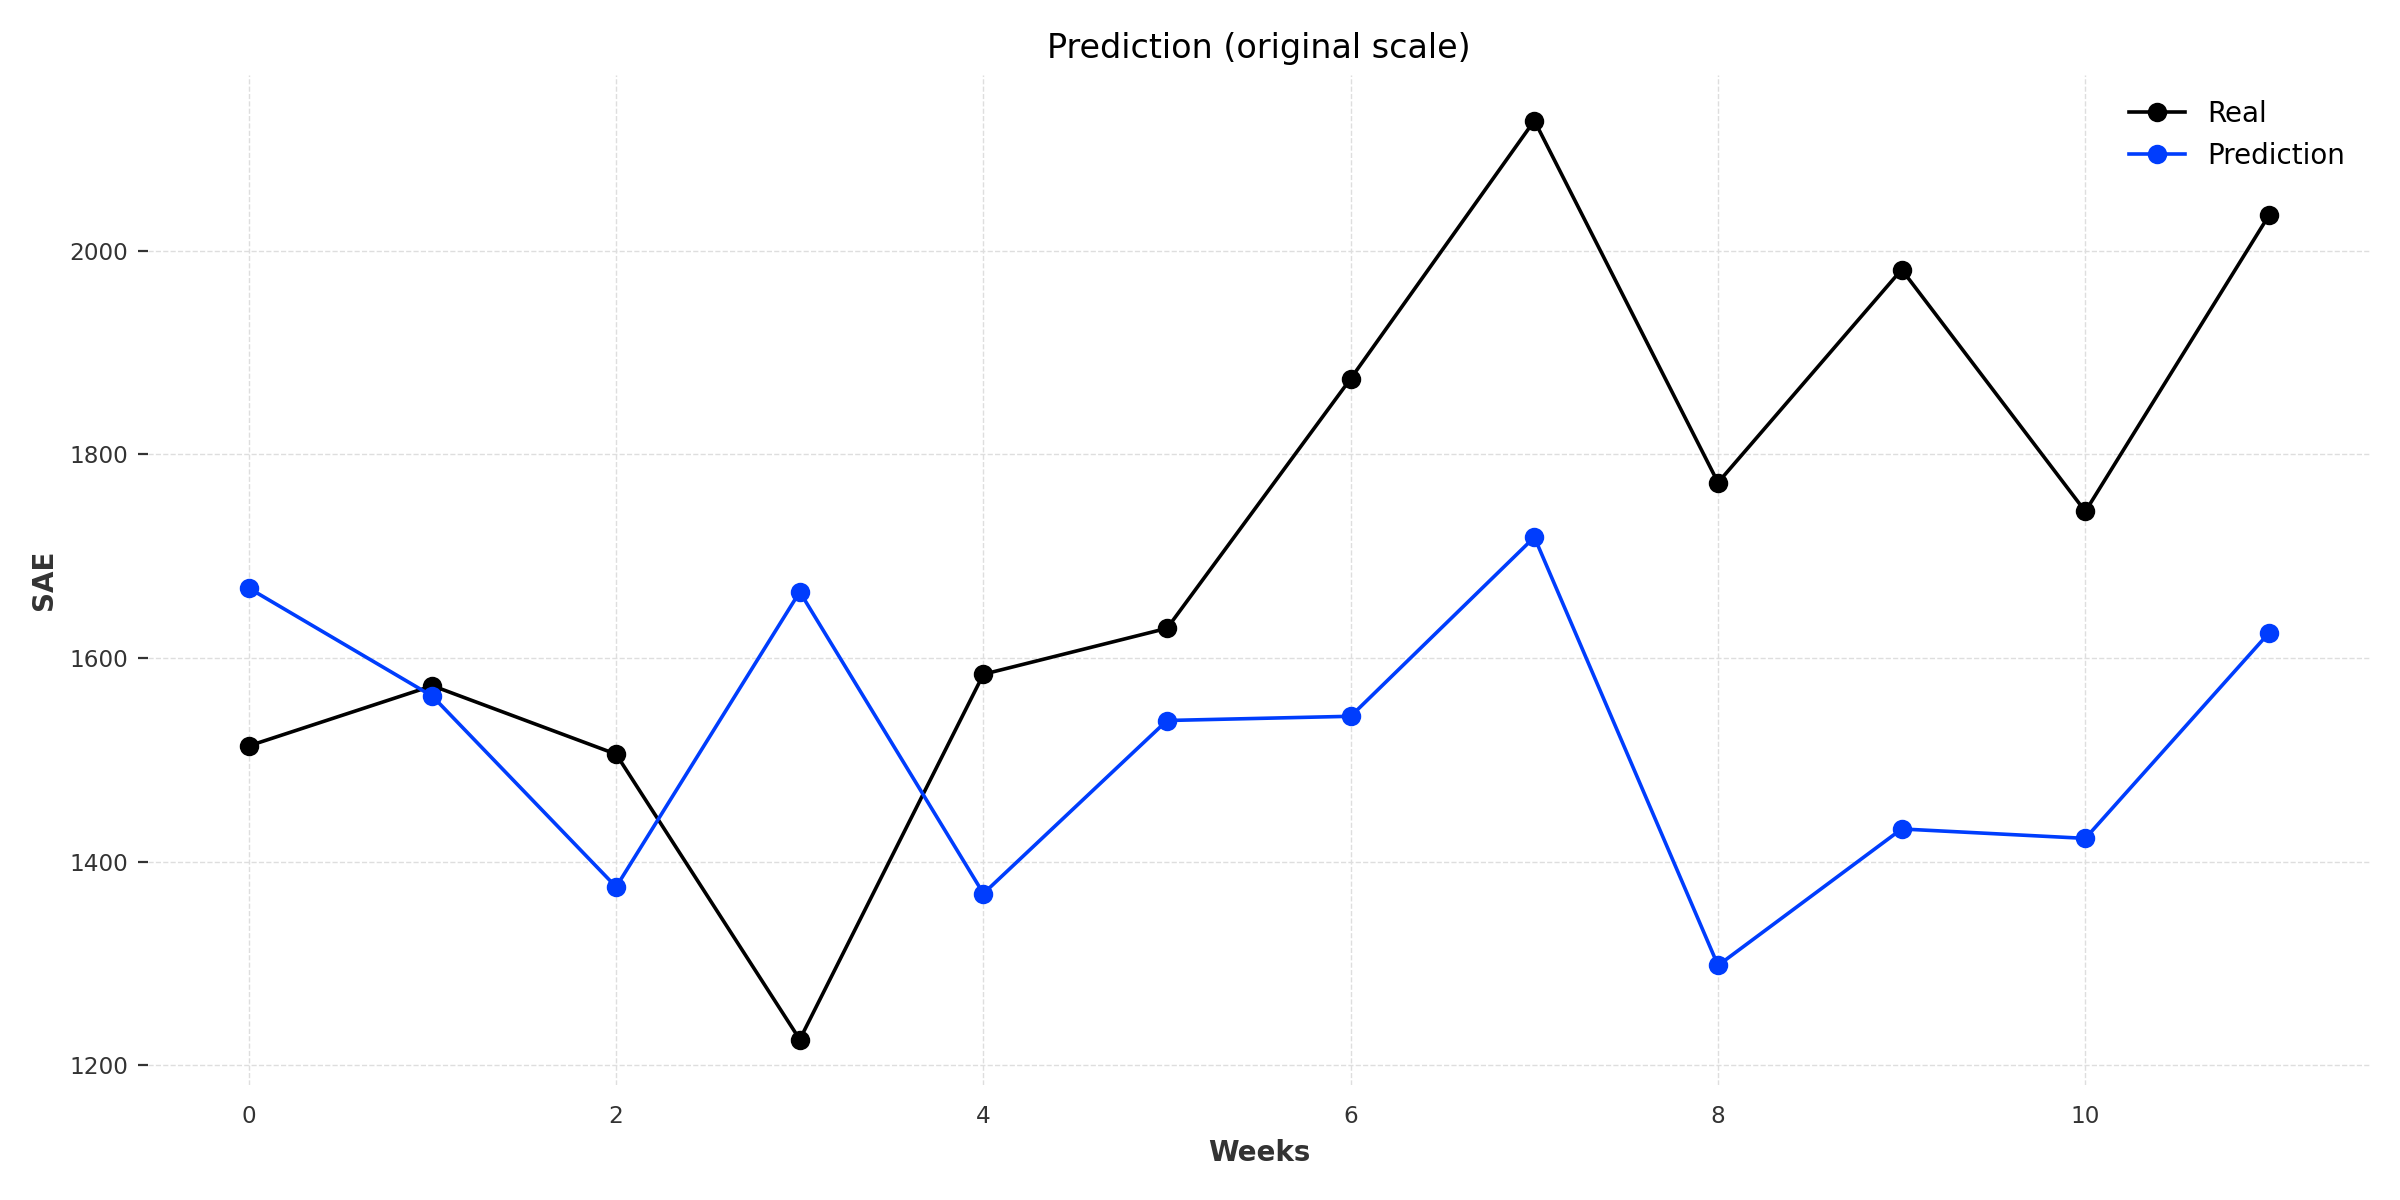
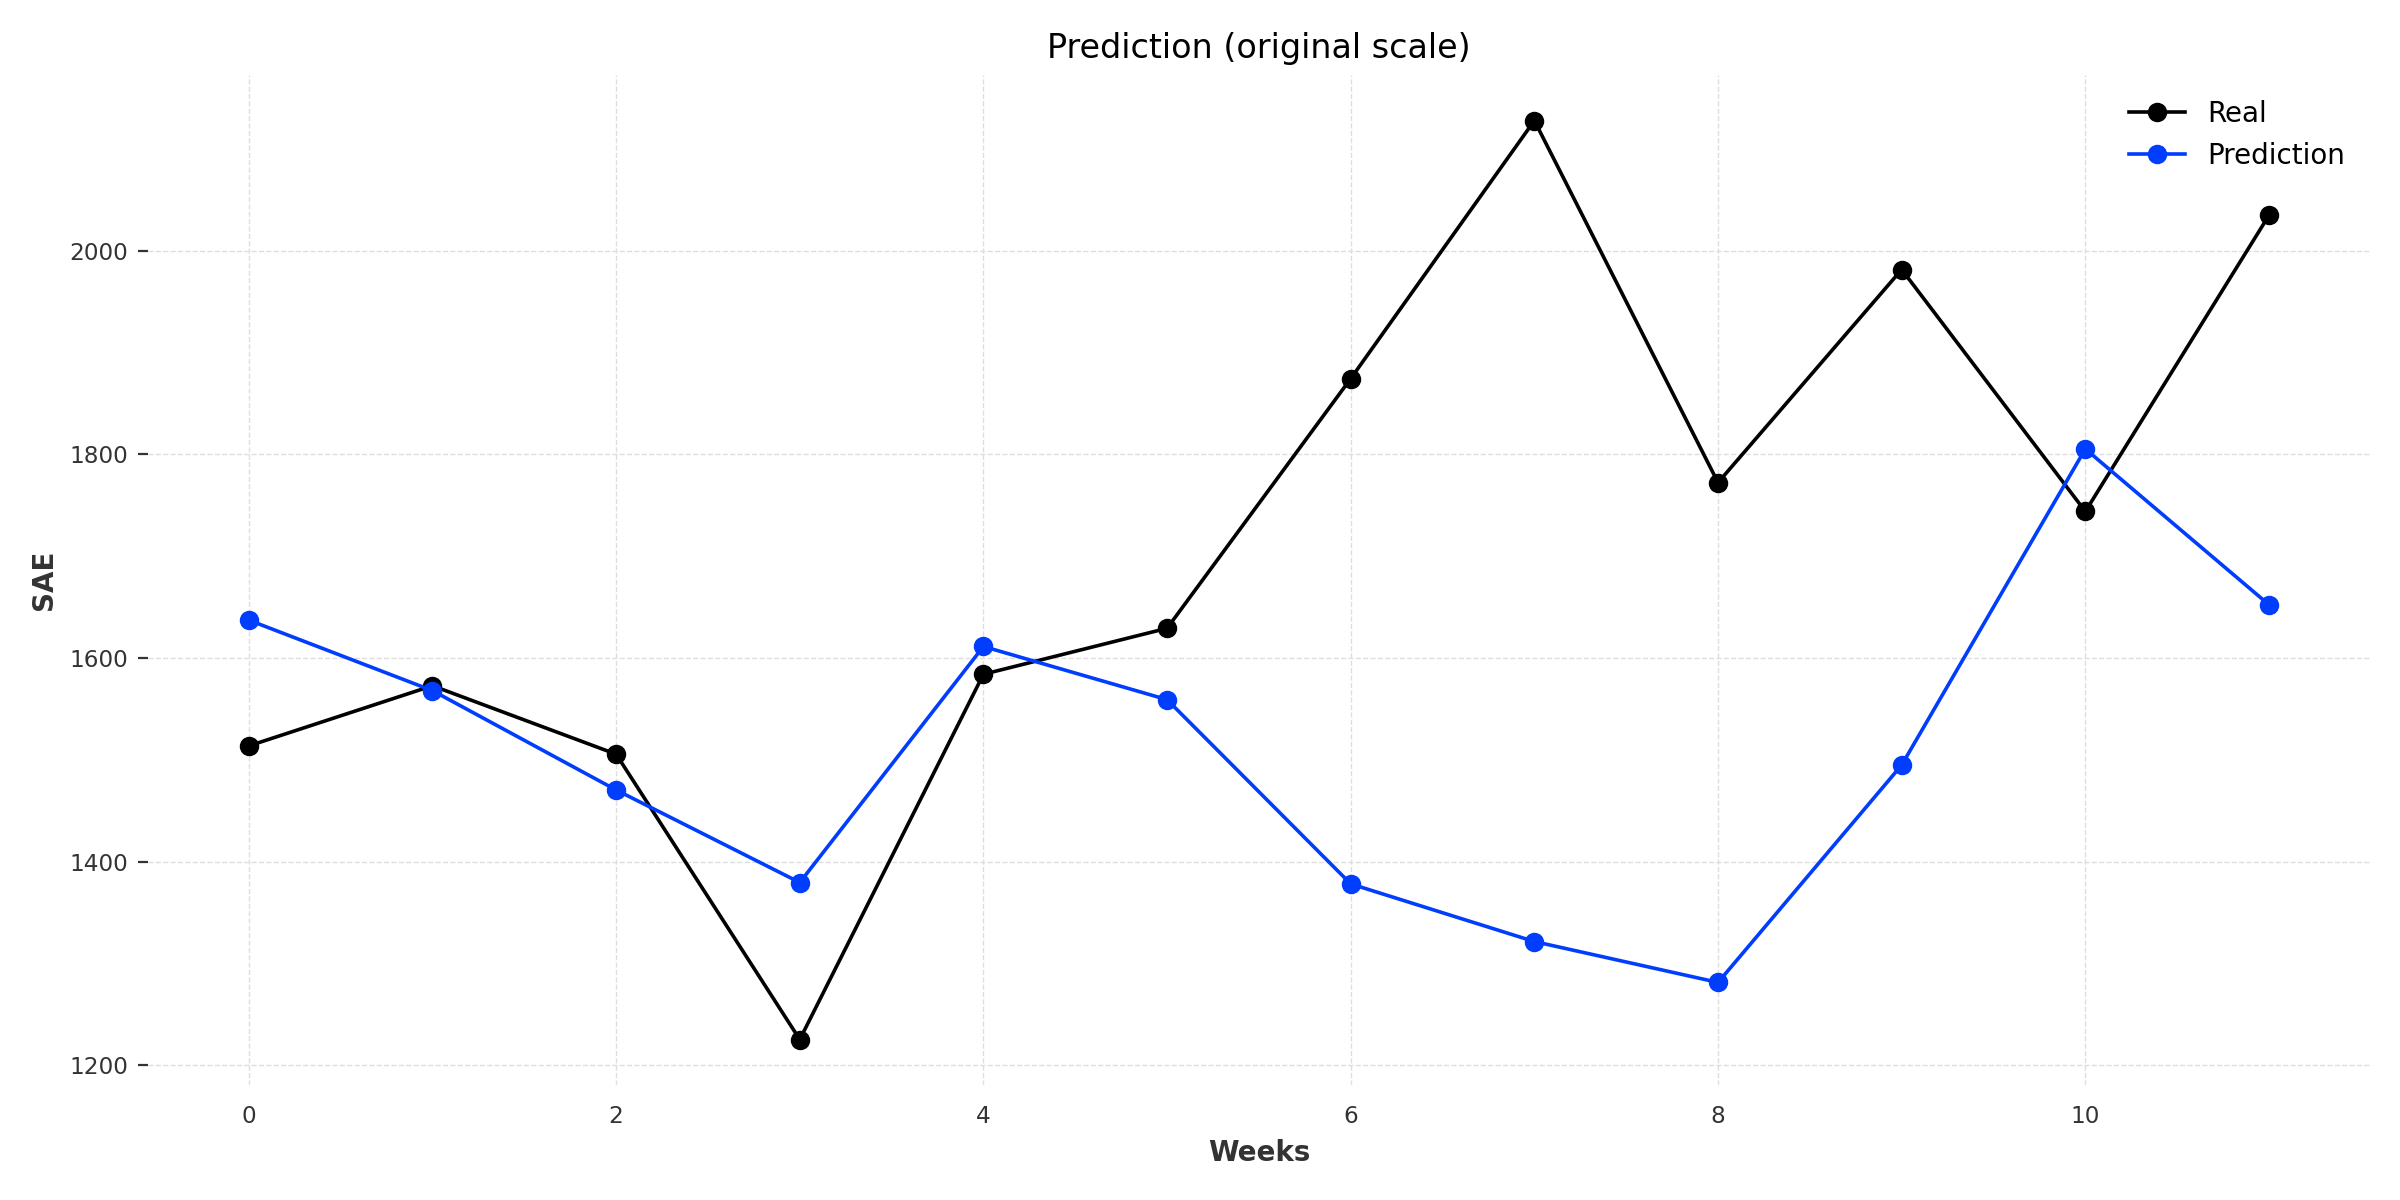
Include target column as input feature and fix prediction scaling
- Fix TFT predict() to use scaled target series (val_scaled) instead of unscaled
- Include target column in past covariates for transformer, LSTM, and TFT models
- Update XAI script to match new feature layout (remove duplicate target concatenation)
- Fix predict_fn and attention sections to feed all features including target to model

diff --git a/xai_transformers_final.py b/xai_transformers_final.py
@@ -104,17 +104,17 @@ dropout = 0.575846442
 weight_decay = 0.0000808
 
 # # BEST SAE 4 (updated with real values from the csv)
-test_size = 4
-target_col = "SAE"
-window_size = 32
-batch_size = 32
-d_model = 128
-n_head = 2
-num_layers = 4  # lstm layers
-epoch_number = 2000
-lr = 0.000482690969879744
-dropout = 0.517106545291414
-weight_decay = 7.75222194438743E-06
+# test_size = 4
+# target_col = "SAE"
+# window_size = 32
+# batch_size = 32
+# d_model = 128
+# n_head = 2
+# num_layers = 4  # lstm layers
+# epoch_number = 2000
+# lr = 0.000482690969879744
+# dropout = 0.517106545291414
+# weight_decay = 7.75222194438743E-06
 # #
 # # BEST FE 12
 # test_size = 12
@@ -178,28 +178,28 @@ weight_decay = 7.75222194438743E-06
 # weight_decay = 1.50E-05
 #
 # BEST SAW 12
-test_size = 12
-target_col = "SAW"
-window_size = 49
-batch_size = 128
-d_model = 256
-n_head = 4
-num_layers = 4
-lr = 0.000551659
-dropout = 0.426466938
-weight_decay = 6.90E-05
+# test_size = 12
+# target_col = "SAW"
+# window_size = 49
+# batch_size = 128
+# d_model = 256
+# n_head = 4
+# num_layers = 4
+# lr = 0.000551659
+# dropout = 0.426466938
+# weight_decay = 6.90E-05
 #
 # # BEST SAE 12 updated values from csv
-test_size = 12
-target_col = "SAE"
-window_size = 45
-batch_size = 64
-d_model = 256
-n_head = 8
-num_layers = 3  # lstm layers
-lr = 0.000496421949598074
-dropout = 0.506098106834949
-weight_decay = 0.000001
+# test_size = 12
+# target_col = "SAE"
+# window_size = 45
+# batch_size = 64
+# d_model = 256
+# n_head = 8
+# num_layers = 3  # lstm layers
+# lr = 0.000496421949598074
+# dropout = 0.506098106834949
+# weight_decay = 0.000001
 
 
 # # combination SAW 12
@@ -306,10 +306,10 @@ model.to(device)
 model.eval()
 torch.set_grad_enabled(False)
 
-# Optional guard: if you truly intend a covariates-only model, the target must NOT be in feature_cols
-if target_col in feature_cols:
+# The target is intentionally included in feature_cols as a past covariate
+if target_col not in feature_cols:
     print(
-        f"⚠ WARNING: target_col '{target_col}' is present inside feature_cols. This leaks the target into the model inputs and will invalidate feature importance.")
+        f"⚠ WARNING: target_col '{target_col}' is NOT present in feature_cols. The model was trained with it as an input feature.")
 
 # Ensure datetime (CRITICAL)
 df["FECHA"] = pd.to_datetime(df["FECHA"])
@@ -321,7 +321,7 @@ full_cov = TimeSeries.from_dataframe(df, "FECHA", feature_cols)
 series_scaled = scaler_y.transform(full_series)
 cov_scaled = scaler_cov.transform(full_cov)
 
-F = 1 + len(feature_cols)
+F = len(feature_cols)
 
 # last forecast point
 last_idx = len(df) - 1
@@ -331,18 +331,14 @@ assert start_hist >= 0
 start_time = df["FECHA"].iloc[start_hist]
 end_time = df["FECHA"].iloc[start_hist + window_size - 1]
 
-hist_target = series_scaled.slice(start_time, end_time)
 hist_cov = cov_scaled.slice(start_time, end_time)
-
-y_hist_np = hist_target.values(copy=True)
 cov_hist_np = hist_cov.values(copy=True)
 
-hist_full_np = np.concatenate([y_hist_np, cov_hist_np], axis=1)
-x0 = hist_full_np.flatten()
+x0 = cov_hist_np.flatten()
 
 # Feature names
 feat_names = []
-cols_all = [target_col] + feature_cols
+cols_all = feature_cols
 for t in range(window_size):
     lag = window_size - 1 - t
     for c in cols_all:
@@ -403,10 +399,8 @@ def predict_fn(flat_X):
     for i in range(flat_X.shape[0]):
         arr = flat_X[i].reshape(window_size, F)
 
-        # Transformer ONLY uses covariates (match your training pipeline)
-        cov_win = arr[:, 1:]  # (T, n_cov)
-
-        X = torch.tensor(cov_win, dtype=torch.float32).unsqueeze(0).to(device)
+        # All features including target are model inputs
+        X = torch.tensor(arr, dtype=torch.float32).unsqueeze(0).to(device)
 
         with torch.no_grad():
             y_hat_scaled = model(X).detach().cpu().numpy().reshape(-1)  # (H,)
@@ -570,15 +564,14 @@ import matplotlib.pyplot as plt
 # ------------------------------------------------------------
 # 0) Build MANY valid windows (no peeking into the future)
 # ------------------------------------------------------------
-cols_all = [target_col] + feature_cols
+cols_all = feature_cols
 F = len(cols_all)
 T = window_size
 H = test_size
 
 # Work directly in numpy (avoids any TimeSeries slicing surprises)
-y_all = series_scaled.values(copy=True)  # (N_total, 1)
-cov_all = cov_scaled.values(copy=True)  # (N_total, n_cov)
-N_total = len(y_all)
+cov_all = cov_scaled.values(copy=True)  # (N_total, n_features including target)
+N_total = len(cov_all)
 
 end_min = T - 1
 end_max = N_total - H - 1  # last origin with full H-step future available
@@ -603,10 +596,7 @@ ends_explain = non_overlap_ends[-N_ORIGINS:]
 X_explain = np.zeros((N_ORIGINS, T * F), dtype=float)
 for i, end in enumerate(ends_explain):
     start = end - T + 1
-    X_explain[i] = np.concatenate(
-        [y_all[start:end + 1], cov_all[start:end + 1]],
-        axis=1
-    ).reshape(-1)
+    X_explain[i] = cov_all[start:end + 1].reshape(-1)
 
 print("X_explain shape:", X_explain.shape)
 
@@ -620,10 +610,7 @@ bg_ends = rng.choice(valid_ends, size=N_BACKGROUND, replace=False)
 X_bg = np.zeros((N_BACKGROUND, T * F), dtype=float)
 for i, end in enumerate(bg_ends):
     start = end - T + 1
-    X_bg[i] = np.concatenate(
-        [y_all[start:end + 1], cov_all[start:end + 1]],
-        axis=1
-    ).reshape(-1)
+    X_bg[i] = cov_all[start:end + 1].reshape(-1)
 
 # ------------------------------------------------------------
 # 3) Feature names (must match flattening order!)
@@ -991,9 +978,8 @@ def make_predict_fn(h):
 
         for i in range(flat_X.shape[0]):
             arr = flat_X[i].reshape(window_size, F)
-            cov_win = arr[:, 1:]  # covariates only
 
-            X = torch.tensor(cov_win, dtype=torch.float32).unsqueeze(0).to(device)
+            X = torch.tensor(arr, dtype=torch.float32).unsqueeze(0).to(device)
             with torch.no_grad():
                 y_hat_scaled = model(X).cpu().numpy().reshape(-1)
 
@@ -2311,7 +2297,7 @@ plt.show()
 N_GLOBAL = 104
 T = window_size
 H = test_size
-F = 1 + len(feature_cols)
+F = len(feature_cols)
 
 end_min = T - 1
 end_max = len(series_scaled) - H - 1
@@ -2330,11 +2316,8 @@ X_global = np.zeros((len(chosen_ends), T * F), dtype=np.float32)
 for i, end in enumerate(chosen_ends):
     start = end - T + 1
 
-    y_win = series_scaled.values(copy=True)[start:end + 1]
     cov_win = cov_scaled.values(copy=True)[start:end + 1]
-
-    arr = np.concatenate([y_win, cov_win], axis=1)  # (T, F)
-    X_global[i] = arr.flatten()
+    X_global[i] = cov_win.flatten()
 
 # LAYER = -1
 # T = window_size
@@ -2390,8 +2373,7 @@ ATTN = []
 
 for i in range(len(X_global)):
     arr = X_global[i].reshape(T, F)
-    cov_win = arr[:, 1:]
-    X = torch.tensor(cov_win, dtype=torch.float32).unsqueeze(0).to(device)
+    X = torch.tensor(arr, dtype=torch.float32).unsqueeze(0).to(device)
 
     with torch.no_grad():
         attn_maps = get_attention_maps(model, X)
@@ -2469,9 +2451,8 @@ for L in range(n_layers):
 
     for i in range(len(X_global)):
         arr = X_global[i].reshape(T, F)
-        cov_win = arr[:, 1:]
 
-        X = torch.tensor(cov_win, dtype=torch.float32).unsqueeze(0).to(device)
+        X = torch.tensor(arr, dtype=torch.float32).unsqueeze(0).to(device)
 
         with torch.no_grad():
             attn_maps = get_attention_maps(model, X)

diff --git a/functions.py b/functions.py
@@ -736,7 +736,7 @@ def run_transformer(df, target_col, window_size, test_size, batch_size, d_model,
     torch.backends.cudnn.benchmark = False
     print(f"Using device: {device_info(device)}")
 
-    feature_cols = [col for col in df.columns if col not in ['FECHA', target_col, 'series']]
+    feature_cols = [col for col in df.columns if col not in ['FECHA', 'series']]
 
     # ===== Split train/test =====
     horizon = test_size
@@ -954,7 +954,7 @@ def run_transformer_xai_old(df, target_col, window_size, test_size, batch_size, 
     torch.backends.cudnn.benchmark = False
     print(f"Using device: {device_info(device)}")
 
-    feature_cols = [col for col in df.columns if col not in ['FECHA', target_col, 'series']]
+    feature_cols = [col for col in df.columns if col not in ['FECHA', 'series']]
 
     # ===== Split train/test =====
     horizon = test_size
@@ -1171,7 +1171,7 @@ def run_transformer_xai(df, target_col, window_size, test_size, batch_size, d_mo
     torch.backends.cudnn.benchmark = False
     print(f"Using device: {device_info(device)}")
 
-    feature_cols = [col for col in df.columns if col not in ['FECHA', target_col, 'series']]
+    feature_cols = [col for col in df.columns if col not in ['FECHA', 'series']]
 
     horizon = test_size
     val_size = test_size
@@ -1617,7 +1617,7 @@ def run_lstm(df, target_col, window_size, test_size, batch_size,
 
     print(f"Using device: {device_info(device)}")
 
-    feature_cols = [col for col in df.columns if col not in ['FECHA', target_col, 'series']]
+    feature_cols = [col for col in df.columns if col not in ['FECHA', 'series']]
 
     horizon = test_size  # Direct multi-horizon prediction
 
@@ -2096,7 +2096,7 @@ def run_darts_tft(df,
     )
 
     # ---- 1b. Build past covariates from all other columns ----
-    feature_cols = [c for c in df.columns if c not in ["FECHA", target_col]]
+    feature_cols = [c for c in df.columns if c not in ["FECHA"]]
     past_cov = TimeSeries.from_dataframe(
         df,
         time_col="FECHA",
@@ -2188,7 +2188,7 @@ def run_darts_tft(df,
     # Use full_past_scaled so model has covariates over history + horizon
     pred_scaled = model.predict(
         n=test_size,
-        series=val[:-test_size],  # Use the start of val as input
+        series=val_scaled[:-test_size],  # Use the start of val as input (scaled)
         past_covariates=full_past_scaled,
         dataloader_kwargs={"num_workers": 0},
     )
